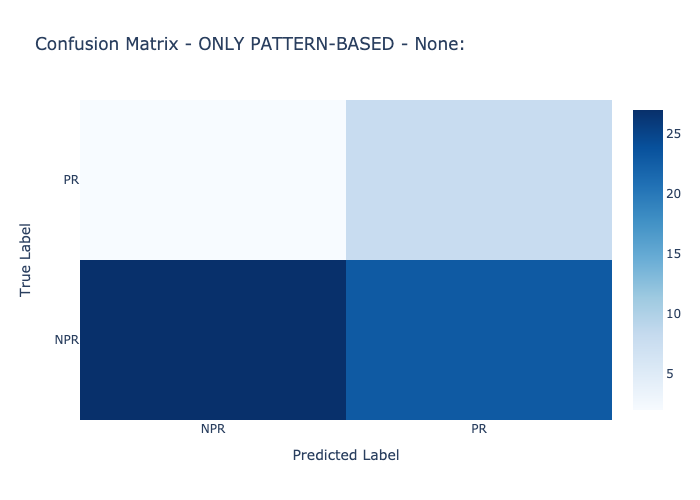
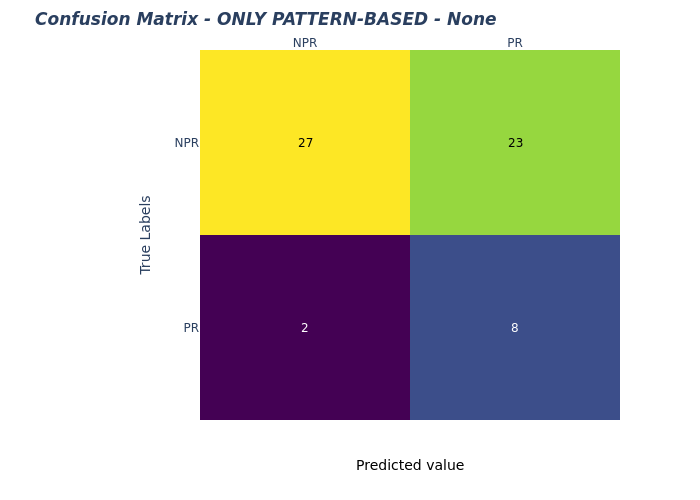
Evaluation finished

diff --git a/replication/Evaluation.py b/replication/Evaluation.py
@@ -1,4 +1,5 @@
 import numpy as np
+import plotly.figure_factory as ff
 import plotly.graph_objects as go
 from sklearn.metrics import confusion_matrix, roc_curve, auc
 from sklearn.model_selection import cross_val_score
@@ -6,16 +7,70 @@ from sklearn.model_selection import cross_val_score
 # Confusion matrix
 def generate_confusion_matrix(y_true, y_pred, classes, use_case, pattern):
     
-    # Creating the heatmap
+    # Creating the confusion matrix
     cm = confusion_matrix(y_true, y_pred)
-    fig = go.Figure(data = go.Heatmap(z = cm, colorscale = 'Blues'))
     
-    # Adding labels and formatting to the figure
-    fig.update_layout(title = f'Confusion Matrix - {use_case} - {pattern}:',
-                      xaxis = dict(title = 'Predicted Label', ticktext = classes, tickvals = np.arange(len(classes))),
-                      yaxis = dict(title = 'True Label', ticktext = classes, tickvals = np.arange(len(classes))),
-                      coloraxis_colorbar = dict(title = 'Counts'))
+    # Convert classes to list
+    classes = classes.tolist()
     
-    # Saving figure into image folder
+    # Create annotations
+    z_text = [[str(value) for value in row] for row in cm]
+    
+    # Set up figure
+    fig = ff.create_annotated_heatmap(
+        cm,
+        x = classes,
+        y = classes,
+        annotation_text = z_text,
+        colorscale = 'Viridis'
+    )
+    
+    # Add title
+    fig.update_layout(
+        title = '<i><b>Confusion Matrix - {} - {}</b></i>'.format(use_case, pattern),
+        xaxis = dict(title = 'Predicted Labels', ticktext = classes, tickvals = np.arange(len(classes))),
+        yaxis = dict(title = 'True Labels', ticktext = classes, tickvals = np.arange(len(classes)), autorange='reversed')
+        )
+    
+    # Adding custom xaxis title
+    fig.add_annotation(
+        dict(
+            font = dict(color = "black", size = 14),
+            x = 0.5,
+            y = -0.15,
+            showarrow = False,
+            text = "Predicted value",
+            xref = "paper",
+            yref = "paper"
+        )
+    )
+    
+    # Adjust margins to make room for yaxis title
+    fig.update_layout(margin = dict(t = 50, l = 200))
+    
+    # Save the figure as an image
     save_path = f'images/ConfusionMatrix-{use_case}-{pattern}.png'
     fig.write_image(save_path)
+    
+# Roc Curve
+def generate_roc_curve(y_true, y_score, use_case, pattern):
+    
+    fpr, tpr, threshould = roc_curve(y_true, y_score)
+    roc_auc = auc(fpr, tpr)
+    
+    # Creting a scatter plot for the ROC Curve
+    fig = go.Figure(data = go.Scatter(
+        x = fpr,
+        y = tpr,
+        mode = 'lines',
+        name = f'ROC Curve (AUC = {roc_auc:.2f})'
+    ))
+    
+    # Adding labels and formatting to the figure
+    fig.update_layout(title = f'Receiver Operating Characteristic (ROC) - {use_case} - {pattern}',
+                      xaxis = dict(title = 'False Positive Rate'),
+                      yaxis = dict(title = 'True Positive Rate'),
+                      legend = dict(x = .5, y = .5, orientation = 'h'))
+    
+    # Saving figure
+    fig.write_image(f'images/ROC-Curve-{use_case}-{pattern}.png')

diff --git a/replication/tree_code_replication.py b/replication/tree_code_replication.py
@@ -23,8 +23,10 @@ from sklearn.feature_selection import SelectFromModel
 from sklearn.model_selection import train_test_split
 from sklearn.metrics import accuracy_score, precision_score
 from sklearn.tree import export_text
+from sklearn.preprocessing import LabelBinarizer
 import re
 from warnings import simplefilter
+from sklearn.metrics import roc_curve, auc
 import Evaluation as ev
 simplefilter(action='ignore', category=FutureWarning)
 simplefilter(action='ignore', category=RuntimeWarning)
@@ -109,10 +111,17 @@ def learn_tree(df, result_column, names, result, results=None, final=False, use_
         model = clfs[-1]
     model = model.fit(X_train,y_train)
     pred_model = model.predict(X_test)
-    y_true = y_test
-    
+
     # Confusion matrix
+    y_true = y_test
     ev.generate_confusion_matrix(y_true, pred_model, np.unique(y_var), use_case, pattern)
+    
+    # ROC Curve
+    y_score = model.predict_proba(X_test)[:,1]
+    label_binarizer = LabelBinarizer()
+    y_true_binary = label_binarizer.fit_transform(y_true)
+    
+    ev.generate_roc_curve(y_true_binary, y_score, use_case, pattern)
     
     n_nodes = model.tree_.node_count
     max_depth = model.tree_.max_depth

diff --git a/replication/time_series_replication.py b/replication/time_series_replication.py
@@ -346,9 +346,8 @@ if __name__ == '__main__' :
         use_case = "running"
     
     # Change working directory (relevant for data access)
-    print(color.BOLD+ color.CYAN + 'Current directory: ' + os.getcwd() + color.END)
-    # os.chdir("..")
-    print(color.BOLD+ color.CYAN + 'Current directory: ' + os.getcwd() + color.END)
+    
+    # os.chdir("..") # Uncomment if you are not using pipenv to execute the project
 
     #preprocessing happens here
     if use_case == "manufacturing":
